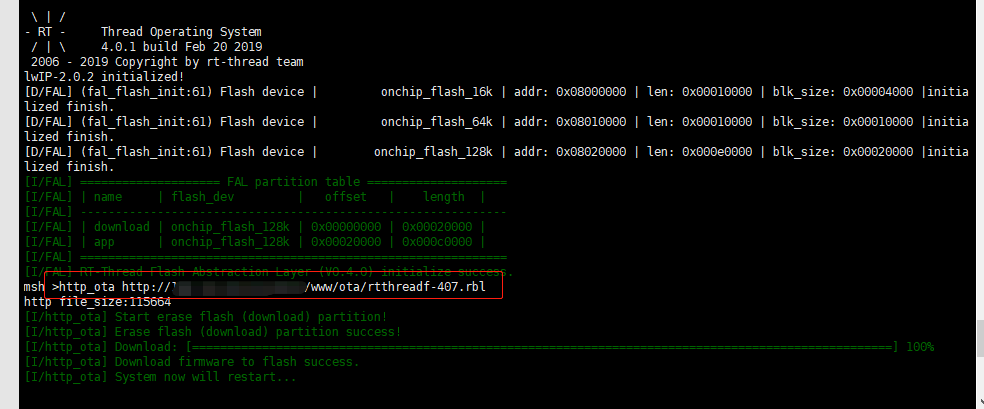
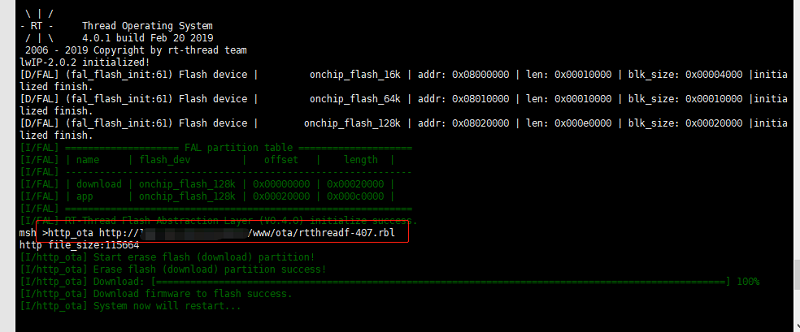
[完善] 调整图片大小 | 完善文档

diff --git a/README.md b/README.md
@@ -2,10 +2,10 @@
 
 ## 1、介绍
 
-本软件包是用于 OTA 升级的固件下载器，该下载器提供多种固件下载方式。开发者可以根据自己的需求灵活选择升级方式，每种升级方式都只需调用一次相应的函数或者执行一次相应的命令就可实现。下面是目前支持的方式。
+本软件包是用于 OTA 升级的固件下载器，该下载器提供多种固件下载方式。开发者可以根据自己的需求灵活选择升级方式，每种升级方式都只需调用一次函数或者命令就可实现，目前支持的下载方式如下所示：
 
  - HTTP/HTTPS 协议下载固件
- - YMODEM 协议下载固件
+ - Ymodem 协议下载固件
 
 ### 1.1 许可证
 
@@ -14,8 +14,8 @@ OTA Downloader package 遵循 Apache2.0 许可，详见 `LICENSE` 文件。
 ### 1.2 依赖
 
 - RT-Thread 3.0+
-- fal 软件包支持
-- YMODEM 下载方式依赖于 ymodem 组件
+- FAL 软件包支持
+- Ymodem 下载方式依赖于 Ymodem 组件
 - HTTP/HTTPS 下载方式依赖于 webclient 软件包
 
 ## 2、如何打开 OTA Downloader
@@ -26,19 +26,19 @@ OTA Downloader package 遵循 Apache2.0 许可，详见 `LICENSE` 文件。
 RT-Thread online packages
     IoT - internet of things  --->
         [*]  The firmware downloader which using on RT-Thread OTA component  --->
-            [*]  Enable ota downloader debug
-            [*]  Enable HTTP OTA
-                (http://xxx/xxx/rtthread.rbl) http ota url
-            [*]  Enable YMODEM OTA
+            [*]  Enable OTA downloader debug
+            [*]  Enable HTTP/HTTPS OTA
+                (http://xxx/xxx/rtthread.rbl) HTTP OTA URL
+            [*]  Enable Ymodem OTA
 ```
 
 软件包选项的详细说明如下图：
 
 | 选项 | 说明 |
 |-|-|
-| Enable ota downloader debug | 使能固件下载器 debug 模式 |
-| Enable HTTP OTA | 使能 HTTP/HTTPS 协议下载固件功能 |
-| Enable YMODEM OTA | 使能 YMODEM 协议下载固件功能 |
+| Enable OTA downloader debug | 使能固件下载器 debug 模式 |
+| Enable HTTP/HTTPS OTA | 使能 HTTP/HTTPS 协议下载固件功能 |
+| Enable Ymodem OTA | 使能 Ymodem 协议下载固件功能 |
 
 选择完自己需要的选项后使用 RT-Thread 的包管理器自动更新，或者使用 `pkgs --update` 命令更新包到 BSP 中。
 
@@ -50,11 +50,11 @@ RT-Thread online packages
 | 功能 | 函数调用 | 执行命令 |
 |---|---|---|
 | 使用 HTTP/HTTPS 协议固件升级 | `void http_ota(uint8_t argc, char **argv)` | `http_ota` |
-| 使用 YMODEM 协议固件升级 | `void ymodem_ota(uint8_t argc, char **argv)` | `ymodem_ota` |
+| 使用 Ymodem 协议固件升级 | `void ymodem_ota(uint8_t argc, char **argv)` | `ymodem_ota` |
 
-### 3.1 YMODEM 协议固件升级命令行演示
+### 3.1 Ymodem 协议固件升级命令行演示
 
-推荐使用支持 YMODEM 协议的 Xshell 。在终端输入 `ymodem_ota` 命令后，鼠标右键然后在菜单栏找到用 YMODEM 发送选项发送文件。具体步骤如下图：
+推荐使用支持 Ymodem 协议的 Xshell 。在终端输入 `ymodem_ota` 命令后，鼠标右键然后在菜单栏找到用 YMODEM 发送选项发送文件。具体步骤如下图：
 
 ![ymodem_ota](docs/figures/ymodem_ota.png)
 
@@ -67,7 +67,7 @@ RT-Thread online packages
 ## 4、注意事项
 
  1. 确保 FAL 中有 downloader 分区。
- 2. YMODEM 协议升级固件时，请使用支持 YMODEM 协议的工具。
+ 2. Ymodem 协议升级固件时，请使用支持 Ymodem 协议的工具。
  3. HTTP/HTTPS 协议升级固件时，需确保远端链接地址可用。
 
 ## 5、参考资料
